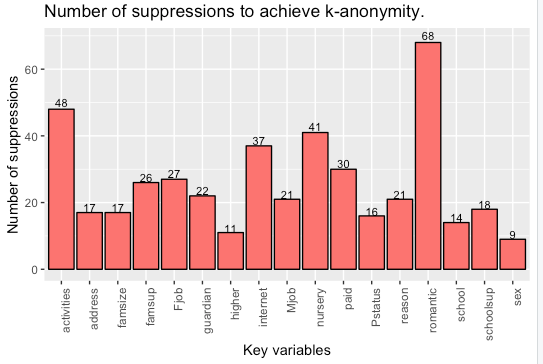
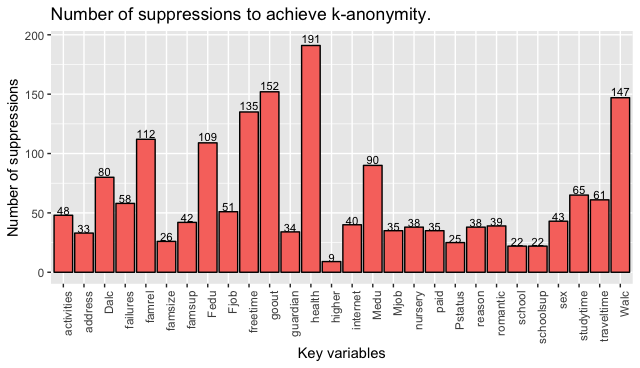
updates categorical

diff --git a/lab_divulgaciondatos/Readme.md b/lab_divulgaciondatos/Readme.md
@@ -77,7 +77,7 @@ Para el caso de este dataset tenemos que hay correlación entre los siguientes a
 
 La clasificación de Categóricos y Numéricos se obtuvo a partir de la operación info() del dataframe de pandas (https://pandas.pydata.org/pandas-docs/stable/generated/pandas.DataFrame.info.html ) 
 
-Categoricas: 	17
+Categoricas: 	28
 
 
     school        395 non-null object
@@ -96,12 +96,7 @@ Categoricas: 	17
     higher        395 non-null object
     internet      395 non-null object
     romantic      395 non-null object
-    schoolsup     395 non-null object
-
-
-Numericas: 	16
-
-    age           395 non-null int64
+    schoolsup     395 non-null object    
     Medu          395 non-null int64
     Fedu          395 non-null int64
     traveltime    395 non-null int64
@@ -113,6 +108,10 @@ Numericas: 	16
     Dalc          395 non-null int64
     Walc          395 non-null int64
     health        395 non-null int64
+
+Atributos numéricos 5:
+
+    age           395 non-null int64
     absences      395 non-null int64
     G1            395 non-null int64
     G2            395 non-null int64
@@ -207,28 +206,29 @@ Puesto que ya identificó qué variables son categóricas, puede proceder con
 
 ####    a. ¿Hay observaciones únicas? ¿Cuántas?
 
-Existen 375 observaciones únicas existen en el dataset de un total de 395 registros existentes en el dataset. Dichas observaciones se identificaron porque violan 2-anonymity
+Todas las  395 son únicas. observaciones se identificaron porque violan 2-anonymity
 
 ```R
-# calcular frecuencias de las tipo category 
 
 ff <- freqCalc(df2, keyVars=c('school', 'sex', 'address', 'famsize', 'Pstatus', 'Mjob', 'Fjob',
                               'reason', 'guardian', 'schoolsup', 'famsup', 'paid', 'activities',
-                              'nursery', 'higher', 'internet', 'romantic') , w=35) 
+                              'nursery', 'higher', 'internet', 'romantic', 
+                              "Medu", "Fedu", "traveltime", 
+                              "studytime", "failures", "famrel", "freetime",
+                              "goout",  "Dalc" , "Walc" , "health") , w=35) 
 print(cbind(df2,ff$fk,ff$Fk))
 
 print(ff)
-# Salida: 
-# --------------------------
-# 375 obs. violate 2-anonymity 
-# 395 obs. violate 3-anonymity 
-# --------------------------
+#--------------------------
+#  395 obs. violate 2-anonymity 
+#  395 obs. violate 3-anonymity 
+#--------------------------
 ```
 
 
 ####    b. ¿El riesgo de re-identificación es muy alto?
 
-El riesgo es muy alto ya que casi el 95% de los registros del dataset son posible identificarlos de forma única a través de la combinación de sus variables categóricas. 
+El riesgo es muy alto ya que  el 100% de los registros del dataset son posible identificarlos de forma única a través de la combinación de sus variables categóricas. 
 
 ```R
 #calculo del riesgo
@@ -275,7 +275,10 @@ df2[,13] <- globalRecode(df2[ ,13] , breaks=c(  -1, 0, 2 ) , labels=c( 1 ,2 ))
 
 ff <- freqCalc(df2, keyVars=c('school', 'sex', 'address', 'famsize', 'Pstatus', 'Mjob', 'Fjob',
                               'reason', 'guardian', 'schoolsup', 'famsup', 'paid', 'activities',
-                              'nursery', 'higher', 'internet', 'romantic') , w=35) 
+                              'nursery', 'higher', 'internet', 'romantic', 
+                              "Medu", "Fedu", "traveltime", 
+                              "studytime", "failures", "famrel", "freetime",
+                              "goout",  "Dalc" , "Walc" , "health") , w=35) 
 
 print(cbind(df2,ff$fk,ff$Fk))
 
@@ -290,10 +293,14 @@ print (cbind(df2, ff$fk, ff$Fk, rk ))
 Luego de la recodificación se aplica el proceso de supresión de datos en todas los atributos categóricos para lograr la k anonimity de 2:
 
 ```R
+
 # Local Suppression To Obtain K-Anonymity
 localsupx <- kAnon(df2, keyVars=c('school', 'sex', 'address', 'famsize', 'Pstatus', 'Mjob', 'Fjob',
                                   'reason', 'guardian', 'schoolsup', 'famsup', 'paid', 'activities',
-                                  'nursery', 'higher', 'internet', 'romantic'), k=2)
+                                  'nursery', 'higher', 'internet', 'romantic', 
+                                  "Medu", "Fedu", "traveltime", 
+                                  "studytime", "failures", "famrel", "freetime",
+                                  "goout",  "Dalc" , "Walc" , "health"), k=2)
 plot(localsupx)
 print(localsupx$xAnon)
 
@@ -302,13 +309,16 @@ print(newX)
 print ( grep("w", colnames(newX)) )
 newff <- freqCalc(newX, keyVars=c('school', 'sex', 'address', 'famsize', 'Pstatus', 'Mjob', 'Fjob',
                                   'reason', 'guardian', 'schoolsup', 'famsup', 'paid', 'activities',
-                                  'nursery', 'higher', 'internet', 'romantic') , w=18) 
+                                  'nursery', 'higher', 'internet', 'romantic', 
+                                  "Medu", "Fedu", "traveltime", 
+                                  "studytime", "failures", "famrel", "freetime",
+                                  "goout",  "Dalc" , "Walc" , "health") , w=29) 
 print(cbind(newX,newff$fk,newff$Fk))
 
 print(newff)
 #--------------------------
-#0 obs. violate 2-anonymity 
-#161 obs. violate 3-anonymity 
+#  0 obs. violate 2-anonymity 
+# 252 obs. violate 3-anonymity 
 #--------------------------
 
 newrk <- indivRisk( newff )$rk
@@ -317,7 +327,7 @@ print(newrk)
 
 ```
 
-Como resultado del proceso se obtiene que ningún registro viola la regla de k anonymity = 2, y que 161 registros violan la k anonymity de 3.
+Como resultado del proceso se obtiene que ningún registro viola la regla de k anonymity = 2, y que 252 registros violan la k anonymity de 3.
 
 En el siguiente gráfico se encuentran enumeradas la cantidad de supresiones por atributo:
 
@@ -332,6 +342,10 @@ En el siguiente gráfico se encuentran enumeradas la cantidad de supresiones por
 
 
 ####    a. Copie los comandos ejecutados para cumplir con este punto.
+
+
+
+
 
 ### Sección 6
 
